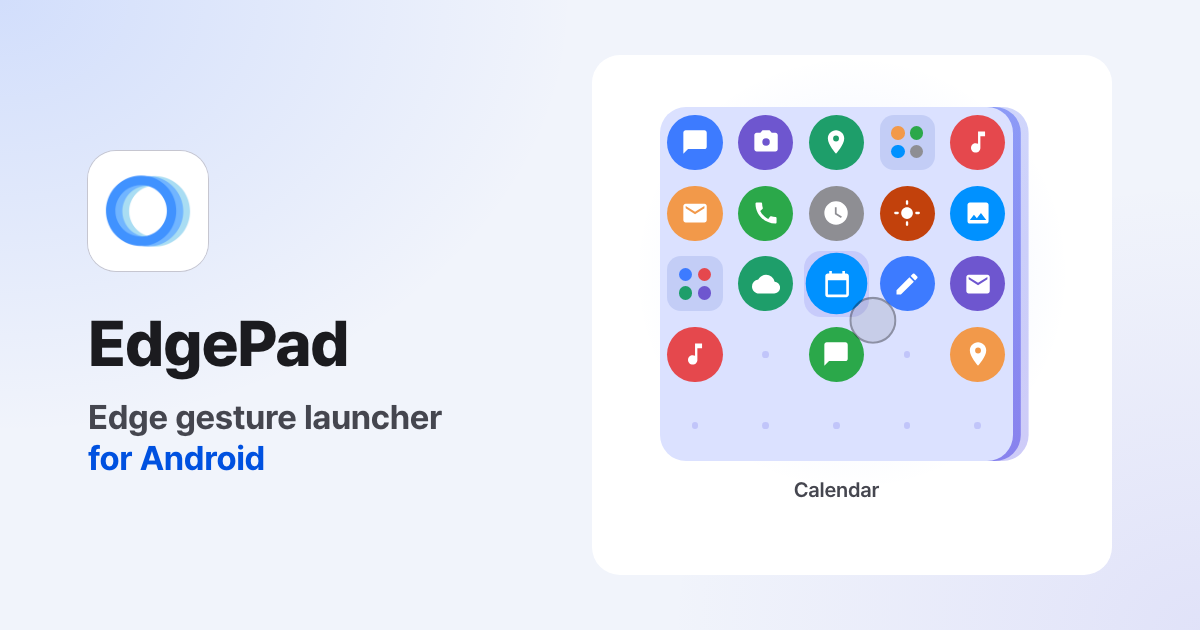
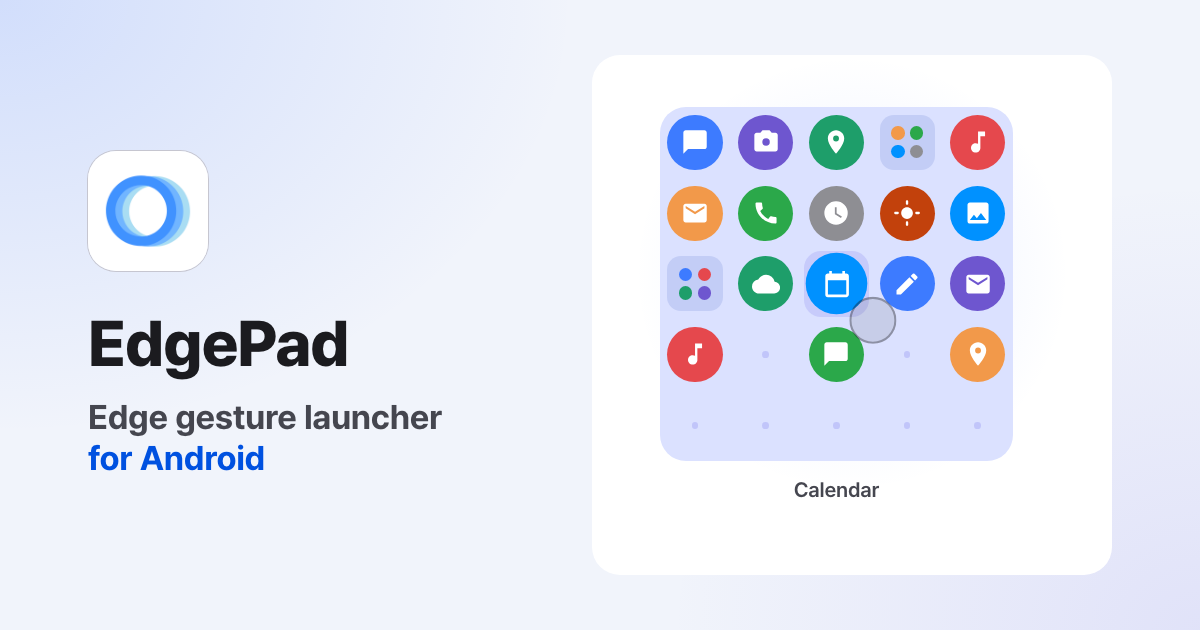
edgepad: 패드 옆 잔상 판 제거 — 실제 앱 기본 스타일과 맞춤
- 장면 A~D의 잔상 판 2장·펼침 애니메이션·토큰 삭제(앱 GLIDE 스타일에 잔상 없음)
- 다크 깊이는 판 윤곽·그라데이션·하이라이트·둘레 빛으로 유지
- OG 이미지 다시 렌더

Claude-Session: https://claude.ai/code/session_013EsvPdmafXKEND7MnpUcKR

Changed region(s): [[0.8325, 0.1508, 0.8633, 0.7238]]

diff --git a/edgepad/ko/index.html b/edgepad/ko/index.html
@@ -308,11 +308,8 @@
 .stage .v::before { content:""; position:absolute; inset:0; background:var(--st-glow); }
 .pad { position:absolute; inset:0; }
 .bgp { position:absolute; inset:0; }
-.bd, .tr { position:absolute; left:13cqw; top:10cqw; width:68cqw; height:68cqw; border-radius:5cqw; }
+.bd { position:absolute; left:13cqw; top:10cqw; width:68cqw; height:68cqw; border-radius:5cqw; }
 .bd { background:var(--bd); box-shadow:var(--bd-sh); }
-.tr { background:linear-gradient(135deg,#5B8CFF,#4F46E5); }
-.t1 { opacity:var(--tra); transform:translateX(1.5cqw); }
-.t2 { opacity:var(--trb); transform:translateX(3cqw); }
 .cells { position:absolute; left:13cqw; top:10cqw; width:68cqw; height:68cqw; display:grid;
   grid-template-columns:repeat(5,13.6cqw); grid-auto-rows:13.6cqw; }
 .c { position:relative; display:grid; place-items:center; }
@@ -397,7 +394,7 @@
 .r .sw { width:10.6cqw; height:6.2cqw; border-radius:4cqw; background:var(--pri); position:relative; flex:none; }
 .r .sw::after { content:""; position:absolute; right:.9cqw; top:.9cqw; width:4.4cqw; height:4.4cqw; border-radius:50%; background:var(--on-pri); }
 .stage { --st:#FFFFFF; --st-glow:radial-gradient(58% 58% at 50% 42%, rgba(47,107,255,.10), transparent 72%);
-  --bd:#DBE1FF; --bd-sh:none; --tra:.55; --trb:.28; --dot:rgba(79,70,229,.18); --hov:rgba(79,70,229,.14); --fold:#C3CDF6;
+  --bd:#DBE1FF; --bd-sh:none; --dot:rgba(79,70,229,.18); --hov:rgba(79,70,229,.14); --fold:#C3CDF6;
   --nmc:#45464F; --hdl:rgba(0,81,224,.72); --fgf:rgba(27,27,31,.10); --fgr:rgba(27,27,31,.34);
   --face:rgba(255,255,255,.72); --plate:rgba(27,27,31,.10); --track:rgba(27,27,31,.12); --on:#1B1B1F; --onv:#45464F; --pri:#0051E0; --on-pri:#FFFFFF;
   --bg-app:#F1F4FB; --surf-app:#FFFFFF; }
@@ -406,7 +403,7 @@
   --st-glow:radial-gradient(64% 64% at 50% 45%, rgba(79,70,229,.40) 0%, rgba(79,70,229,.16) 52%, transparent 76%), radial-gradient(30% 42% at 88% 44%, rgba(47,107,255,.26), transparent 72%);
   --bd:linear-gradient(180deg,#343A52 0%,#2B3042 52%,#252939 100%);
   --bd-sh:inset 0 0 0 1px rgba(255,255,255,.08), inset 0 1px 0 rgba(255,255,255,.10);
-  --tra:.70; --trb:.38; --dot:rgba(143,176,255,.26); --hov:rgba(143,176,255,.20); --fold:#414A6B;
+  --dot:rgba(143,176,255,.26); --hov:rgba(143,176,255,.20); --fold:#414A6B;
   --face:rgba(255,255,255,.07); --plate:rgba(228,226,230,.14); --track:rgba(228,226,230,.16); --on:#E4E2E6; --onv:#C6C6D0; --pri:#B5C4FF; --on-pri:#00174D; } }
 /* 정지 프레임(기본) — 모션 끔이면 이 그림만 보인다 */
 .sa .fg { transform:translate(45.10cqw,42.10cqw); } .sa .hd { opacity:0; }
@@ -422,8 +419,6 @@
 .sa .bu { animation:aBu 3420ms var(--base) infinite; }
 .sa .pad { animation:aPad 3420ms var(--base) infinite; }
 .sa .bgp { animation:aBg 3420ms var(--base) infinite; }
-.sa .t1 { animation:aT1 3420ms var(--base) infinite; }
-.sa .t2 { animation:aT2 3420ms var(--base) infinite; }
 .sa .c { animation:aCvT 3420ms infinite, aCvO 3420ms infinite; animation-delay:calc(var(--base) + var(--r) * 1ms); }
 .sa .nm .n0 { animation:aN0 3420ms var(--base) infinite; }
 .sa .nm .n1 { animation:aN1 3420ms var(--base) infinite; }
@@ -505,8 +500,6 @@
 @keyframes aBu{0%{opacity:1;transform:scaleX(0)}9.064%{opacity:1;transform:scaleX(0);animation-timing-function:cubic-bezier(0,0,.2,1)}26.608%{opacity:1;transform:scaleX(1);animation-timing-function:cubic-bezier(.4,0,1,1)}30.994%{opacity:0;transform:scaleX(1);animation-timing-function:step-end}31.023%{opacity:0;transform:scaleX(0)}100%{opacity:0;transform:scaleX(0)}}
 @keyframes aPad{0%{opacity:1}86.257%{opacity:1;animation-timing-function:cubic-bezier(.4,0,1,1)}89.766%{opacity:0}100%{opacity:0}}
 @keyframes aBg{0%{opacity:0}34.795%{opacity:0;animation-timing-function:cubic-bezier(.33,0,.67,1)}40.643%{opacity:1}95.614%{opacity:1;animation-timing-function:step-end}95.643%{opacity:0}100%{opacity:0}}
-@keyframes aT1{0%{transform:translateX(0)}40.643%{transform:translateX(0);animation-timing-function:cubic-bezier(.4,0,.2,1)}45.906%{transform:translateX(1.5cqw)}95.614%{transform:translateX(1.5cqw);animation-timing-function:step-end}95.643%{transform:translateX(0)}100%{transform:translateX(0)}}
-@keyframes aT2{0%{transform:translateX(0)}41.813%{transform:translateX(0);animation-timing-function:cubic-bezier(.4,0,.2,1)}47.076%{transform:translateX(3.0cqw)}95.614%{transform:translateX(3.0cqw);animation-timing-function:step-end}95.643%{transform:translateX(0)}100%{transform:translateX(0)}}
 @keyframes aCvT{0%{transform:translate(var(--dx),var(--dy)) scale(1.5)}26.608%{transform:translate(var(--dx),var(--dy)) scale(1.5);animation-timing-function:cubic-bezier(.22,1,.36,1)}36.433%{transform:none}95.614%{transform:none;animation-timing-function:step-end}95.643%{transform:translate(var(--dx),var(--dy)) scale(1.5)}100%{transform:translate(var(--dx),var(--dy)) scale(1.5)}}
 @keyframes aCvO{0%{opacity:0}26.608%{opacity:0;animation-timing-function:linear}29.561%{opacity:1}95.614%{opacity:1;animation-timing-function:step-end}95.643%{opacity:0}100%{opacity:0}}
 @keyframes aN0{0%{opacity:0}52.193%{opacity:0;animation-timing-function:cubic-bezier(.4,0,.2,1)}53.947%{opacity:1}55.994%{opacity:1;animation-timing-function:cubic-bezier(.4,0,.2,1)}57.749%{opacity:0}100%{opacity:0}}
@@ -632,7 +625,7 @@
             <figure class="stage sa" data-loop role="img" aria-label="오른쪽 가장자리 핸들을 밀자 패드가 열리고, 손가락을 캘린더로 옮겨 떼는 모습">
                 <div class="v" aria-hidden="true">
 <div class="pad">
-<div class="bgp"><i class="tr t2"></i><i class="tr t1"></i><i class="bd"></i></div>
+<div class="bgp"><i class="bd"></i></div>
 <div class="cells"><span class="c k1" style="--dx:-32.10cqw;--dy:-12.30cqw;--r:140"><i><svg><use href="#i-chat"/></svg></i></span><span class="c k2" style="--dx:-25.30cqw;--dy:-12.30cqw;--r:114"><i><svg><use href="#i-camera"/></svg></i></span><span class="c k3" style="--dx:-18.50cqw;--dy:-12.30cqw;--r:90"><i><svg><use href="#i-pin"/></svg></i></span><span class="c fd" style="--dx:-11.70cqw;--dy:-12.30cqw;--r:69"><i><b class="k5"></b><b class="k6"></b><b class="k7"></b><b class="k8"></b></i></span><span class="c k4" style="--dx:-4.90cqw;--dy:-12.30cqw;--r:54"><i><svg><use href="#i-music"/></svg></i></span><span class="c k5" style="--dx:-32.10cqw;--dy:-5.50cqw;--r:133"><i><svg><use href="#i-mail"/></svg></i></span><span class="c k6" style="--dx:-25.30cqw;--dy:-5.50cqw;--r:105"><i><svg><use href="#i-call"/></svg></i></span><span class="c k8" style="--dx:-18.50cqw;--dy:-5.50cqw;--r:79"><i><svg><use href="#i-clock"/></svg></i></span><span class="c k9" style="--dx:-11.70cqw;--dy:-5.50cqw;--r:53"><i><svg><use href="#i-sun"/></svg></i></span><span class="c k7" style="--dx:-4.90cqw;--dy:-5.50cqw;--r:30"><i><svg><use href="#i-photo"/></svg></i></span><span class="c fd" style="--dx:-32.10cqw;--dy:1.30cqw;--r:131"><i><b class="k1"></b><b class="k4"></b><b class="k3"></b><b class="k2"></b></i></span><span class="c k3" style="--dx:-25.30cqw;--dy:1.30cqw;--r:103"><i><svg><use href="#i-cloud"/></svg></i></span><span class="c k7 h22 hv" style="--dx:-18.50cqw;--dy:1.30cqw;--r:75"><i><svg><use href="#i-cal"/></svg></i></span><span class="c k1 h23" style="--dx:-11.70cqw;--dy:1.30cqw;--r:48"><i><svg><use href="#i-note"/></svg></i></span><span class="c k2 h24" style="--dx:-4.90cqw;--dy:1.30cqw;--r:21"><i><svg><use href="#i-mail"/></svg></i></span><span class="c k4" style="--dx:-32.10cqw;--dy:8.10cqw;--r:135"><i><svg><use href="#i-music"/></svg></i></span><span class="c e" style="--dx:-25.30cqw;--dy:8.10cqw;--r:108"><i></i></span><span class="c k6" style="--dx:-18.50cqw;--dy:8.10cqw;--r:82"><i><svg><use href="#i-chat"/></svg></i></span><span class="c e" style="--dx:-11.70cqw;--dy:8.10cqw;--r:58"><i></i></span><span class="c k5" style="--dx:-4.90cqw;--dy:8.10cqw;--r:39"><i><svg><use href="#i-pin"/></svg></i></span><span class="c e" style="--dx:-32.10cqw;--dy:14.90cqw;--r:144"><i></i></span><span class="c e" style="--dx:-25.30cqw;--dy:14.90cqw;--r:119"><i></i></span><span class="c e" style="--dx:-18.50cqw;--dy:14.90cqw;--r:97"><i></i></span><span class="c e" style="--dx:-11.70cqw;--dy:14.90cqw;--r:77"><i></i></span><span class="c e" style="--dx:-4.90cqw;--dy:14.90cqw;--r:64"><i></i></span></div>
 <div class="nm"><span class="n0">메일</span><span class="n1">메모</span><span class="n2 on">캘린더</span></div>
 </div>
@@ -654,7 +647,7 @@
                 <figure class="stage sb" data-loop role="img" aria-label="열린 패드에서 칸을 길게 누른 채 움직이자 지나는 칸마다 이름이 바뀌고, 카메라에서 손을 떼는 모습">
                     <div class="v" aria-hidden="true">
 <div class="pad">
-<div class="bgp"><i class="tr t2"></i><i class="tr t1"></i><i class="bd"></i></div>
+<div class="bgp"><i class="bd"></i></div>
 <div class="cells"><span class="c k1"><i><svg><use href="#i-chat"/></svg></i></span><span class="c k3"><i><svg><use href="#i-pin"/></svg></i></span><span class="c k4"><i><svg><use href="#i-music"/></svg></i></span><span class="c k5"><i><svg><use href="#i-mail"/></svg></i></span><span class="c fd"><i><b class="k2"></b><b class="k7"></b><b class="k6"></b><b class="k9"></b></i></span><span class="c k6"><i><svg><use href="#i-call"/></svg></i></span><span class="c k7"><i><svg><use href="#i-cal"/></svg></i></span><span class="c k8 h12"><i><svg><use href="#i-clock"/></svg></i></span><span class="c k9 h13"><i><svg><use href="#i-sun"/></svg></i></span><span class="c k1"><i><svg><use href="#i-cloud"/></svg></i></span><span class="c k5"><i><svg><use href="#i-note"/></svg></i></span><span class="c k2 h21 hv"><i><svg><use href="#i-camera"/></svg></i></span><span class="c fd h22"><i><b class="k3"></b><b class="k1"></b><b class="k4"></b><b class="k5"></b></i></span><span class="c k3 h23"><i><svg><use href="#i-music"/></svg></i></span><span class="c k7"><i><svg><use href="#i-photo"/></svg></i></span><span class="c k4"><i><svg><use href="#i-chat"/></svg></i></span><span class="c k6"><i><svg><use href="#i-mail"/></svg></i></span><span class="c e"><i></i></span><span class="c k2 h33"><i><svg><use href="#i-pin"/></svg></i></span><span class="c e"><i></i></span><span class="c e"><i></i></span><span class="c e"><i></i></span><span class="c e"><i></i></span><span class="c e"><i></i></span><span class="c e"><i></i></span></div>
 <div class="nm"><span class="n0">지도</span><span class="n1">음악</span><span class="n2">날씨</span><span class="n3">시계</span><span class="n4">업무</span><span class="n5 on">카메라</span></div>
 </div>
@@ -672,7 +665,7 @@
                     <div class="v" aria-hidden="true">
 <div class="pad">
 <div class="par" style="transform-origin:47.0cqw 44.0cqw">
-<div class="bgp"><i class="tr t2"></i><i class="tr t1"></i><i class="bd"></i></div>
+<div class="bgp"><i class="bd"></i></div>
 <div class="cells"><span class="c k1"><i><svg><use href="#i-chat"/></svg></i></span><span class="c k3"><i><svg><use href="#i-pin"/></svg></i></span><span class="c k4"><i><svg><use href="#i-music"/></svg></i></span><span class="c k5"><i><svg><use href="#i-mail"/></svg></i></span><span class="c k6"><i><svg><use href="#i-call"/></svg></i></span><span class="c k7"><i><svg><use href="#i-cal"/></svg></i></span><span class="c k8"><i><svg><use href="#i-clock"/></svg></i></span><span class="c k9"><i><svg><use href="#i-sun"/></svg></i></span><span class="c k2"><i><svg><use href="#i-camera"/></svg></i></span><span class="c k1"><i><svg><use href="#i-cloud"/></svg></i></span><span class="c k3"><i><svg><use href="#i-note"/></svg></i></span><span class="c fd"><i><b class="k5"></b><b class="k2"></b><b class="k7"></b><b class="k4"></b></i></span><span class="c fd hp22 fdr"><i><b class="k2"></b><b class="k4"></b><b class="k6"></b><b class="k1"></b></i><em class="bdg"><svg><use href="#i-clock"/></svg></em></span><span class="c k6 hp23"><i><svg><use href="#i-photo"/></svg></i></span><span class="c e"><i></i></span><span class="c k4"><i><svg><use href="#i-chat"/></svg></i></span><span class="c k5"><i><svg><use href="#i-mail"/></svg></i></span><span class="c k1"><i><svg><use href="#i-music"/></svg></i></span><span class="c e"><i></i></span><span class="c e"><i></i></span><span class="c e"><i></i></span><span class="c e"><i></i></span><span class="c e"><i></i></span><span class="c e"><i></i></span><span class="c e"><i></i></span></div></div>
 <div class="fol" style="left:26.6cqw;top:23.6cqw">
 <i class="fbd"></i><div class="prev"><b class="k2"></b><b class="k4"></b><b class="k6"></b><b class="k1"></b></div>
@@ -692,7 +685,7 @@
                 <figure class="stage sd" data-loop role="img" aria-label="컨트롤 패드에서 손전등에 머물자 둘레가 차올라 켜지고, 밝기 막대에 머물자 값이 오르는 모습">
                     <div class="v" aria-hidden="true">
 <div class="pad">
-<div class="bgp"><i class="tr t2"></i><i class="tr t1"></i><i class="bd"></i></div>
+<div class="bgp"><i class="bd"></i></div>
 <div class="media"><div class="mtop"><span class="cover"></span><span class="mtxt"><b></b><b></b></span></div><div class="mbtn"><span class="mb"><svg><use href="#i-prev"/></svg></span><span class="mb main"><svg><use href="#i-pause"/></svg></span><span class="mb"><svg><use href="#i-next"/></svg></span></div></div>
 <span class="tl" style="left:13.0cqw;top:37.2cqw"><span class="tw"><i><svg><use href="#i-rotate"/></svg></i><b class="onl"><svg><use href="#i-rotate"/></svg></b></span></span><span class="tl on" style="left:26.6cqw;top:37.2cqw"><span class="tw"><i><svg><use href="#i-dnd"/></svg></i><b class="onl"><svg><use href="#i-dnd"/></svg></b></span></span><span class="tl" style="left:40.2cqw;top:37.2cqw"><span class="tw"><i><svg><use href="#i-bell"/></svg></i><b class="onl"><svg><use href="#i-bell"/></svg></b></span></span><span class="tl" style="left:53.8cqw;top:37.2cqw"><span class="tw"><i><svg><use href="#i-moon"/></svg></i><b class="onl"><svg><use href="#i-moon"/></svg></b></span></span><span class="tl hs4 fl" style="left:67.4cqw;top:37.2cqw"><span class="tw"><i><svg><use href="#i-flash"/></svg></i><b class="onl"><svg><use href="#i-flash"/></svg></b><svg class="ring" viewBox="0 0 40 40"><circle cx="20" cy="20" r="18" pathLength="100"/></svg></span></span>
 <div class="sl br" style="top:50.8cqw;--v:71%"><span class="fillrow"><b></b></span><i><svg><use href="#i-sun"/></svg></i><span class="trk"><b></b></span></div>

diff --git a/edgepad/index.html b/edgepad/index.html
@@ -308,11 +308,8 @@
 .stage .v::before { content:""; position:absolute; inset:0; background:var(--st-glow); }
 .pad { position:absolute; inset:0; }
 .bgp { position:absolute; inset:0; }
-.bd, .tr { position:absolute; left:13cqw; top:10cqw; width:68cqw; height:68cqw; border-radius:5cqw; }
+.bd { position:absolute; left:13cqw; top:10cqw; width:68cqw; height:68cqw; border-radius:5cqw; }
 .bd { background:var(--bd); box-shadow:var(--bd-sh); }
-.tr { background:linear-gradient(135deg,#5B8CFF,#4F46E5); }
-.t1 { opacity:var(--tra); transform:translateX(1.5cqw); }
-.t2 { opacity:var(--trb); transform:translateX(3cqw); }
 .cells { position:absolute; left:13cqw; top:10cqw; width:68cqw; height:68cqw; display:grid;
   grid-template-columns:repeat(5,13.6cqw); grid-auto-rows:13.6cqw; }
 .c { position:relative; display:grid; place-items:center; }
@@ -397,7 +394,7 @@
 .r .sw { width:10.6cqw; height:6.2cqw; border-radius:4cqw; background:var(--pri); position:relative; flex:none; }
 .r .sw::after { content:""; position:absolute; right:.9cqw; top:.9cqw; width:4.4cqw; height:4.4cqw; border-radius:50%; background:var(--on-pri); }
 .stage { --st:#FFFFFF; --st-glow:radial-gradient(58% 58% at 50% 42%, rgba(47,107,255,.10), transparent 72%);
-  --bd:#DBE1FF; --bd-sh:none; --tra:.55; --trb:.28; --dot:rgba(79,70,229,.18); --hov:rgba(79,70,229,.14); --fold:#C3CDF6;
+  --bd:#DBE1FF; --bd-sh:none; --dot:rgba(79,70,229,.18); --hov:rgba(79,70,229,.14); --fold:#C3CDF6;
   --nmc:#45464F; --hdl:rgba(0,81,224,.72); --fgf:rgba(27,27,31,.10); --fgr:rgba(27,27,31,.34);
   --face:rgba(255,255,255,.72); --plate:rgba(27,27,31,.10); --track:rgba(27,27,31,.12); --on:#1B1B1F; --onv:#45464F; --pri:#0051E0; --on-pri:#FFFFFF;
   --bg-app:#F1F4FB; --surf-app:#FFFFFF; }
@@ -406,7 +403,7 @@
   --st-glow:radial-gradient(64% 64% at 50% 45%, rgba(79,70,229,.40) 0%, rgba(79,70,229,.16) 52%, transparent 76%), radial-gradient(30% 42% at 88% 44%, rgba(47,107,255,.26), transparent 72%);
   --bd:linear-gradient(180deg,#343A52 0%,#2B3042 52%,#252939 100%);
   --bd-sh:inset 0 0 0 1px rgba(255,255,255,.08), inset 0 1px 0 rgba(255,255,255,.10);
-  --tra:.70; --trb:.38; --dot:rgba(143,176,255,.26); --hov:rgba(143,176,255,.20); --fold:#414A6B;
+  --dot:rgba(143,176,255,.26); --hov:rgba(143,176,255,.20); --fold:#414A6B;
   --face:rgba(255,255,255,.07); --plate:rgba(228,226,230,.14); --track:rgba(228,226,230,.16); --on:#E4E2E6; --onv:#C6C6D0; --pri:#B5C4FF; --on-pri:#00174D; } }
 /* 정지 프레임(기본) — 모션 끔이면 이 그림만 보인다 */
 .sa .fg { transform:translate(45.10cqw,42.10cqw); } .sa .hd { opacity:0; }
@@ -422,8 +419,6 @@
 .sa .bu { animation:aBu 3420ms var(--base) infinite; }
 .sa .pad { animation:aPad 3420ms var(--base) infinite; }
 .sa .bgp { animation:aBg 3420ms var(--base) infinite; }
-.sa .t1 { animation:aT1 3420ms var(--base) infinite; }
-.sa .t2 { animation:aT2 3420ms var(--base) infinite; }
 .sa .c { animation:aCvT 3420ms infinite, aCvO 3420ms infinite; animation-delay:calc(var(--base) + var(--r) * 1ms); }
 .sa .nm .n0 { animation:aN0 3420ms var(--base) infinite; }
 .sa .nm .n1 { animation:aN1 3420ms var(--base) infinite; }
@@ -505,8 +500,6 @@
 @keyframes aBu{0%{opacity:1;transform:scaleX(0)}9.064%{opacity:1;transform:scaleX(0);animation-timing-function:cubic-bezier(0,0,.2,1)}26.608%{opacity:1;transform:scaleX(1);animation-timing-function:cubic-bezier(.4,0,1,1)}30.994%{opacity:0;transform:scaleX(1);animation-timing-function:step-end}31.023%{opacity:0;transform:scaleX(0)}100%{opacity:0;transform:scaleX(0)}}
 @keyframes aPad{0%{opacity:1}86.257%{opacity:1;animation-timing-function:cubic-bezier(.4,0,1,1)}89.766%{opacity:0}100%{opacity:0}}
 @keyframes aBg{0%{opacity:0}34.795%{opacity:0;animation-timing-function:cubic-bezier(.33,0,.67,1)}40.643%{opacity:1}95.614%{opacity:1;animation-timing-function:step-end}95.643%{opacity:0}100%{opacity:0}}
-@keyframes aT1{0%{transform:translateX(0)}40.643%{transform:translateX(0);animation-timing-function:cubic-bezier(.4,0,.2,1)}45.906%{transform:translateX(1.5cqw)}95.614%{transform:translateX(1.5cqw);animation-timing-function:step-end}95.643%{transform:translateX(0)}100%{transform:translateX(0)}}
-@keyframes aT2{0%{transform:translateX(0)}41.813%{transform:translateX(0);animation-timing-function:cubic-bezier(.4,0,.2,1)}47.076%{transform:translateX(3.0cqw)}95.614%{transform:translateX(3.0cqw);animation-timing-function:step-end}95.643%{transform:translateX(0)}100%{transform:translateX(0)}}
 @keyframes aCvT{0%{transform:translate(var(--dx),var(--dy)) scale(1.5)}26.608%{transform:translate(var(--dx),var(--dy)) scale(1.5);animation-timing-function:cubic-bezier(.22,1,.36,1)}36.433%{transform:none}95.614%{transform:none;animation-timing-function:step-end}95.643%{transform:translate(var(--dx),var(--dy)) scale(1.5)}100%{transform:translate(var(--dx),var(--dy)) scale(1.5)}}
 @keyframes aCvO{0%{opacity:0}26.608%{opacity:0;animation-timing-function:linear}29.561%{opacity:1}95.614%{opacity:1;animation-timing-function:step-end}95.643%{opacity:0}100%{opacity:0}}
 @keyframes aN0{0%{opacity:0}52.193%{opacity:0;animation-timing-function:cubic-bezier(.4,0,.2,1)}53.947%{opacity:1}55.994%{opacity:1;animation-timing-function:cubic-bezier(.4,0,.2,1)}57.749%{opacity:0}100%{opacity:0}}
@@ -632,7 +625,7 @@
             <figure class="stage sa" data-loop role="img" aria-label="A finger swipes in from the handle on the right edge, the pad opens, and the finger slides onto Calendar and lets go">
                 <div class="v" aria-hidden="true">
 <div class="pad">
-<div class="bgp"><i class="tr t2"></i><i class="tr t1"></i><i class="bd"></i></div>
+<div class="bgp"><i class="bd"></i></div>
 <div class="cells"><span class="c k1" style="--dx:-32.10cqw;--dy:-12.30cqw;--r:140"><i><svg><use href="#i-chat"/></svg></i></span><span class="c k2" style="--dx:-25.30cqw;--dy:-12.30cqw;--r:114"><i><svg><use href="#i-camera"/></svg></i></span><span class="c k3" style="--dx:-18.50cqw;--dy:-12.30cqw;--r:90"><i><svg><use href="#i-pin"/></svg></i></span><span class="c fd" style="--dx:-11.70cqw;--dy:-12.30cqw;--r:69"><i><b class="k5"></b><b class="k6"></b><b class="k7"></b><b class="k8"></b></i></span><span class="c k4" style="--dx:-4.90cqw;--dy:-12.30cqw;--r:54"><i><svg><use href="#i-music"/></svg></i></span><span class="c k5" style="--dx:-32.10cqw;--dy:-5.50cqw;--r:133"><i><svg><use href="#i-mail"/></svg></i></span><span class="c k6" style="--dx:-25.30cqw;--dy:-5.50cqw;--r:105"><i><svg><use href="#i-call"/></svg></i></span><span class="c k8" style="--dx:-18.50cqw;--dy:-5.50cqw;--r:79"><i><svg><use href="#i-clock"/></svg></i></span><span class="c k9" style="--dx:-11.70cqw;--dy:-5.50cqw;--r:53"><i><svg><use href="#i-sun"/></svg></i></span><span class="c k7" style="--dx:-4.90cqw;--dy:-5.50cqw;--r:30"><i><svg><use href="#i-photo"/></svg></i></span><span class="c fd" style="--dx:-32.10cqw;--dy:1.30cqw;--r:131"><i><b class="k1"></b><b class="k4"></b><b class="k3"></b><b class="k2"></b></i></span><span class="c k3" style="--dx:-25.30cqw;--dy:1.30cqw;--r:103"><i><svg><use href="#i-cloud"/></svg></i></span><span class="c k7 h22 hv" style="--dx:-18.50cqw;--dy:1.30cqw;--r:75"><i><svg><use href="#i-cal"/></svg></i></span><span class="c k1 h23" style="--dx:-11.70cqw;--dy:1.30cqw;--r:48"><i><svg><use href="#i-note"/></svg></i></span><span class="c k2 h24" style="--dx:-4.90cqw;--dy:1.30cqw;--r:21"><i><svg><use href="#i-mail"/></svg></i></span><span class="c k4" style="--dx:-32.10cqw;--dy:8.10cqw;--r:135"><i><svg><use href="#i-music"/></svg></i></span><span class="c e" style="--dx:-25.30cqw;--dy:8.10cqw;--r:108"><i></i></span><span class="c k6" style="--dx:-18.50cqw;--dy:8.10cqw;--r:82"><i><svg><use href="#i-chat"/></svg></i></span><span class="c e" style="--dx:-11.70cqw;--dy:8.10cqw;--r:58"><i></i></span><span class="c k5" style="--dx:-4.90cqw;--dy:8.10cqw;--r:39"><i><svg><use href="#i-pin"/></svg></i></span><span class="c e" style="--dx:-32.10cqw;--dy:14.90cqw;--r:144"><i></i></span><span class="c e" style="--dx:-25.30cqw;--dy:14.90cqw;--r:119"><i></i></span><span class="c e" style="--dx:-18.50cqw;--dy:14.90cqw;--r:97"><i></i></span><span class="c e" style="--dx:-11.70cqw;--dy:14.90cqw;--r:77"><i></i></span><span class="c e" style="--dx:-4.90cqw;--dy:14.90cqw;--r:64"><i></i></span></div>
 <div class="nm"><span class="n0">Mail</span><span class="n1">Notes</span><span class="n2 on">Calendar</span></div>
 </div>
@@ -654,7 +647,7 @@
                 <figure class="stage sb" data-loop role="img" aria-label="On an open pad, a finger long-presses a slot and slides, the name below changing slot by slot, then lets go on Camera">
                     <div class="v" aria-hidden="true">
 <div class="pad">
-<div class="bgp"><i class="tr t2"></i><i class="tr t1"></i><i class="bd"></i></div>
+<div class="bgp"><i class="bd"></i></div>
 <div class="cells"><span class="c k1"><i><svg><use href="#i-chat"/></svg></i></span><span class="c k3"><i><svg><use href="#i-pin"/></svg></i></span><span class="c k4"><i><svg><use href="#i-music"/></svg></i></span><span class="c k5"><i><svg><use href="#i-mail"/></svg></i></span><span class="c fd"><i><b class="k2"></b><b class="k7"></b><b class="k6"></b><b class="k9"></b></i></span><span class="c k6"><i><svg><use href="#i-call"/></svg></i></span><span class="c k7"><i><svg><use href="#i-cal"/></svg></i></span><span class="c k8 h12"><i><svg><use href="#i-clock"/></svg></i></span><span class="c k9 h13"><i><svg><use href="#i-sun"/></svg></i></span><span class="c k1"><i><svg><use href="#i-cloud"/></svg></i></span><span class="c k5"><i><svg><use href="#i-note"/></svg></i></span><span class="c k2 h21 hv"><i><svg><use href="#i-camera"/></svg></i></span><span class="c fd h22"><i><b class="k3"></b><b class="k1"></b><b class="k4"></b><b class="k5"></b></i></span><span class="c k3 h23"><i><svg><use href="#i-music"/></svg></i></span><span class="c k7"><i><svg><use href="#i-photo"/></svg></i></span><span class="c k4"><i><svg><use href="#i-chat"/></svg></i></span><span class="c k6"><i><svg><use href="#i-mail"/></svg></i></span><span class="c e"><i></i></span><span class="c k2 h33"><i><svg><use href="#i-pin"/></svg></i></span><span class="c e"><i></i></span><span class="c e"><i></i></span><span class="c e"><i></i></span><span class="c e"><i></i></span><span class="c e"><i></i></span><span class="c e"><i></i></span></div>
 <div class="nm"><span class="n0">Maps</span><span class="n1">Music</span><span class="n2">Weather</span><span class="n3">Clock</span><span class="n4">Work</span><span class="n5 on">Camera</span></div>
 </div>
@@ -672,7 +665,7 @@
                     <div class="v" aria-hidden="true">
 <div class="pad">
 <div class="par" style="transform-origin:47.0cqw 44.0cqw">
-<div class="bgp"><i class="tr t2"></i><i class="tr t1"></i><i class="bd"></i></div>
+<div class="bgp"><i class="bd"></i></div>
 <div class="cells"><span class="c k1"><i><svg><use href="#i-chat"/></svg></i></span><span class="c k3"><i><svg><use href="#i-pin"/></svg></i></span><span class="c k4"><i><svg><use href="#i-music"/></svg></i></span><span class="c k5"><i><svg><use href="#i-mail"/></svg></i></span><span class="c k6"><i><svg><use href="#i-call"/></svg></i></span><span class="c k7"><i><svg><use href="#i-cal"/></svg></i></span><span class="c k8"><i><svg><use href="#i-clock"/></svg></i></span><span class="c k9"><i><svg><use href="#i-sun"/></svg></i></span><span class="c k2"><i><svg><use href="#i-camera"/></svg></i></span><span class="c k1"><i><svg><use href="#i-cloud"/></svg></i></span><span class="c k3"><i><svg><use href="#i-note"/></svg></i></span><span class="c fd"><i><b class="k5"></b><b class="k2"></b><b class="k7"></b><b class="k4"></b></i></span><span class="c fd hp22 fdr"><i><b class="k2"></b><b class="k4"></b><b class="k6"></b><b class="k1"></b></i><em class="bdg"><svg><use href="#i-clock"/></svg></em></span><span class="c k6 hp23"><i><svg><use href="#i-photo"/></svg></i></span><span class="c e"><i></i></span><span class="c k4"><i><svg><use href="#i-chat"/></svg></i></span><span class="c k5"><i><svg><use href="#i-mail"/></svg></i></span><span class="c k1"><i><svg><use href="#i-music"/></svg></i></span><span class="c e"><i></i></span><span class="c e"><i></i></span><span class="c e"><i></i></span><span class="c e"><i></i></span><span class="c e"><i></i></span><span class="c e"><i></i></span><span class="c e"><i></i></span></div></div>
 <div class="fol" style="left:26.6cqw;top:23.6cqw">
 <i class="fbd"></i><div class="prev"><b class="k2"></b><b class="k4"></b><b class="k6"></b><b class="k1"></b></div>
@@ -692,7 +685,7 @@
                 <figure class="stage sd" data-loop role="img" aria-label="On the controls pad, a finger rests on Flashlight until its ring fills and it turns on, then turns up the brightness">
                     <div class="v" aria-hidden="true">
 <div class="pad">
-<div class="bgp"><i class="tr t2"></i><i class="tr t1"></i><i class="bd"></i></div>
+<div class="bgp"><i class="bd"></i></div>
 <div class="media"><div class="mtop"><span class="cover"></span><span class="mtxt"><b></b><b></b></span></div><div class="mbtn"><span class="mb"><svg><use href="#i-prev"/></svg></span><span class="mb main"><svg><use href="#i-pause"/></svg></span><span class="mb"><svg><use href="#i-next"/></svg></span></div></div>
 <span class="tl" style="left:13.0cqw;top:37.2cqw"><span class="tw"><i><svg><use href="#i-rotate"/></svg></i><b class="onl"><svg><use href="#i-rotate"/></svg></b></span></span><span class="tl on" style="left:26.6cqw;top:37.2cqw"><span class="tw"><i><svg><use href="#i-dnd"/></svg></i><b class="onl"><svg><use href="#i-dnd"/></svg></b></span></span><span class="tl" style="left:40.2cqw;top:37.2cqw"><span class="tw"><i><svg><use href="#i-bell"/></svg></i><b class="onl"><svg><use href="#i-bell"/></svg></b></span></span><span class="tl" style="left:53.8cqw;top:37.2cqw"><span class="tw"><i><svg><use href="#i-moon"/></svg></i><b class="onl"><svg><use href="#i-moon"/></svg></b></span></span><span class="tl hs4 fl" style="left:67.4cqw;top:37.2cqw"><span class="tw"><i><svg><use href="#i-flash"/></svg></i><b class="onl"><svg><use href="#i-flash"/></svg></b><svg class="ring" viewBox="0 0 40 40"><circle cx="20" cy="20" r="18" pathLength="100"/></svg></span></span>
 <div class="sl br" style="top:50.8cqw;--v:71%"><span class="fillrow"><b></b></span><i><svg><use href="#i-sun"/></svg></i><span class="trk"><b></b></span></div>
